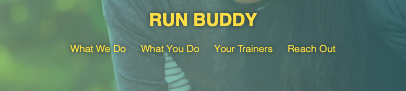
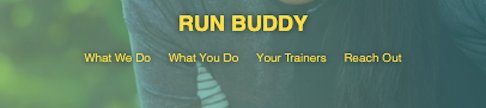
fixed card layout

diff --git a/assets/css/styles.css b/assets/css/styles.css
@@ -45,7 +45,7 @@ header nav ul li a {
 }
 
 .hero {
-    background-image: url("../images/IMG_1816.JPG");
+    background-image: url("../images/background.JPG");
     background-size: cover;
     background-position: 80%;
     height: 250px;
@@ -108,8 +108,9 @@ header nav ul li a {
 
 .card {
     position: relative;
+    z-index: -1;
     margin: 5px;
-    border: 5px;
+    border: 3px solid rgb(10, 184, 237);
 }
 
 #studio img {
@@ -117,9 +118,14 @@ header nav ul li a {
     height: 400px;
 }
 
+.small-card {
+    display: flex;
+    flex-wrap: wrap;
+    justify-content: space-evenly;
+}
 .small-card img {
     max-width: 300px;
-    height: 100px;
+    height: 100%;
 }
 
 .card-text {
@@ -127,7 +133,12 @@ header nav ul li a {
     bottom: 16px;
     left: 0;
     background-color:rgb(10, 184, 237);
-    padding: 3px;
+    padding: 5px 10px;
+}
+
+.small-card card-text {
+    bottom: 5x;
+    
 }
 #work-cards h3 {
     font-weight: 100;

diff --git a/index.html b/index.html
@@ -46,7 +46,7 @@
       <div id="work-cards">
         <article class="card" id="studio" >
           <a target="_blank" rel="noopener noreferrer" href="https://www.madalynecross.com">
-            <img src="./assets/images/studio.png" alt="Madalyne Cross Studio Site">
+            <img src="./assets/images/studio-page.png" alt="Madalyne Cross Studio Site">
           </a> 
           <div class="card-text">
             <h3>Studio Site</h3>
